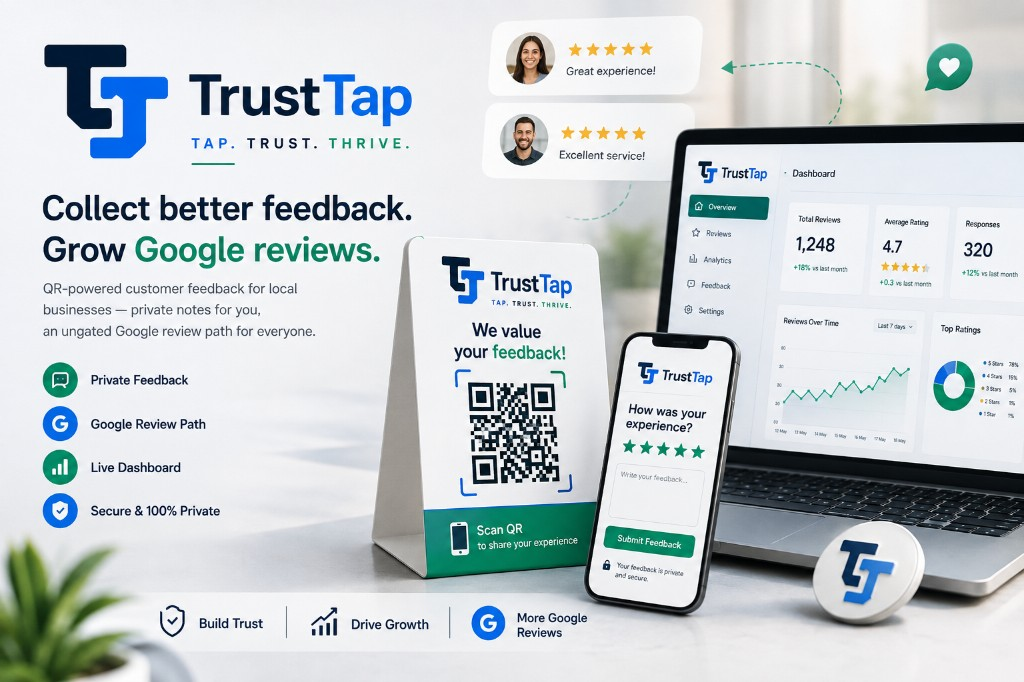
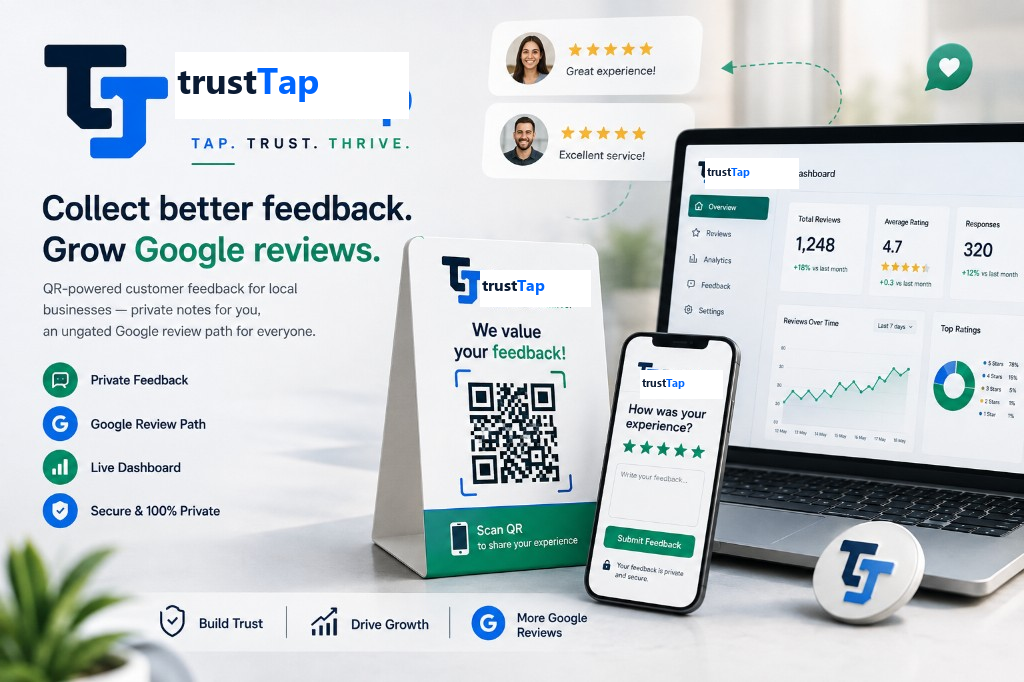
Rename the product spelling to trustTap in copy and hero artwork.

diff --git a/frontend/src/lib/trustTapPageContent.ts b/frontend/src/lib/trustTapPageContent.ts
@@ -8,13 +8,13 @@ import {
 import { ROUTES } from "./routes";
 
 export const TRUSTTAP_LIVE_URL = "https://trusttap.commiters.com/" as const;
-export const TRUSTTAP_DOCUMENT_TITLE = "TrustTap";
+export const TRUSTTAP_DOCUMENT_TITLE = "trustTap";
 export const TRUSTTAP_SEO = {
   title: TRUSTTAP_DOCUMENT_TITLE,
   description:
     "NFC and QR-based ground verification for logistics, field personnel tracking, and facility inspection auditing.",
   keywords:
-    "TrustTap, ground verification, NFC, QR inspection, field tracking, logistics auditing, Commiters product",
+    "trustTap, ground verification, NFC, QR inspection, field tracking, logistics auditing, Commiters product",
   path: ROUTES.trustTap,
 } as const;
 
@@ -22,7 +22,7 @@ export const TRUSTTAP_ADMIN_DASHBOARD_URL = "https://trusttap.commiters.com/admi
 
 export const TRUSTTAP_HERO = {
   kicker: "PROPRIETARY CLOUD PRODUCT",
-  titleLead: "TrustTap:",
+  titleLead: "trustTap:",
   titleAccent: "Ground Verification & Physical Inspection Tracking",
   tagline:
     "NFC and QR-based ground verification system for logistics, field personnel tracking, and facility inspection auditing.",
@@ -33,14 +33,14 @@ export const TRUSTTAP_HERO = {
   secondaryHref: ROUTES.opsFlow,
 } as const;
 
-/** Hero right column — TrustTap product marketing visual. */
+/** Hero right column — trustTap product marketing visual. */
 export const TRUSTTAP_HERO_SHOWCASE = {
-  ariaLabel: "TrustTap marketing visual with QR stand, mobile feedback flow, analytics dashboard, and updated brand logo",
+  ariaLabel: "trustTap marketing visual with QR stand, mobile feedback flow, analytics dashboard, and updated brand logo",
   image: {
     src: "/assets/trusttap/trusttap-hero-marketing.png",
     srcSet:
       "/assets/trusttap/trusttap-hero-marketing.png 1x, /assets/trusttap/trusttap-hero-marketing@2x.png 2x",
-    alt: "TrustTap — Tap. Trust. Thrive. QR feedback, Google review path, live dashboard, and private customer notes for local businesses",
+    alt: "trustTap — Tap. Trust. Thrive. QR feedback, Google review path, live dashboard, and private customer notes for local businesses",
     width: 1024,
     height: 682,
   },
@@ -155,7 +155,7 @@ export const TRUSTTAP_FAQ = {
   items: [
     {
       id: "gate",
-      question: "Does TrustTap gate Google reviews by rating?",
+      question: "Does trustTap gate Google reviews by rating?",
       answer:
         "No. Every customer always sees the same Google review option. Private feedback is separate.",
     },
@@ -190,12 +190,12 @@ export const TRUSTTAP_BOTTOM_CTA = {
 export const TRUSTTAP_ABOUT = {
   kicker: "ABOUT",
   title: "Built for the field, not a slide deck.",
-  body: "TrustTap gives operations teams NFC and QR ground verification: tamper-proof scans, offline inspection logs, and a live ops dashboard scoped by policy.",
+  body: "trustTap gives operations teams NFC and QR ground verification: tamper-proof scans, offline inspection logs, and a live ops dashboard scoped by policy.",
   illustration: {
     src: "/assets/trusttap/trusttap-hero-showcase.png",
     srcSet:
       "/assets/trusttap/trusttap-hero-showcase.png 1x, /assets/trusttap/trusttap-hero-showcase@2x.png 2x",
-    alt: "TrustTap product console with QR stand, mobile scan flow, and operations dashboard",
+    alt: "trustTap product console with QR stand, mobile scan flow, and operations dashboard",
     width: 1024,
     height: 682,
   },
@@ -209,19 +209,19 @@ export const TRUSTTAP_PREVIEW = {
     {
       id: "qr",
       src: "/assets/trusttap/trusttap-qr-preview.svg",
-      alt: "TrustTap QR stand for in-store feedback",
+      alt: "trustTap QR stand for in-store feedback",
       caption: "QR stand",
     },
     {
       id: "dashboard",
       src: "/assets/trusttap/trusttap-dashboard-preview.svg",
-      alt: "TrustTap owner dashboard preview",
+      alt: "trustTap owner dashboard preview",
       caption: "Live dashboard",
     },
     {
       id: "locations",
       src: "/assets/trusttap/trusttap-locations-preview.svg",
-      alt: "TrustTap multi-location coverage preview",
+      alt: "trustTap multi-location coverage preview",
       caption: "Locations",
     },
   ],

diff --git a/frontend/src/components/Navbar.test.tsx b/frontend/src/components/Navbar.test.tsx
@@ -66,19 +66,19 @@ describe("Navbar", () => {
     expect(screen.queryByText(/^Commiters$/)).not.toBeInTheDocument();
 
     const primaryNav = screen.getByRole("navigation", { name: /Primary navigation/i });
-    expect(primaryNavLabels(primaryNav)).toEqual(["Services", "About", "Work", "TrustTap", "OpsFlow AI"]);
+    expect(primaryNavLabels(primaryNav)).toEqual(["Services", "About", "Work", "trustTap", "OpsFlow AI"]);
     expect(desktopNavTriggers(primaryNav).map((link) => link.textContent?.replace(/\s+/g, " ").trim())).toEqual([
       "Services",
       "About",
       "Work",
-      "TrustTap",
+      "trustTap",
       "OpsFlow AI",
     ]);
     expect(desktopNavTriggers(primaryNav)[0]).toHaveAttribute("href", ROUTES.services);
 
-    expect(within(primaryNav).getByRole("link", { name: /^TrustTap$/i })).toHaveAttribute("data-nav-emphasis", "flagship");
+    expect(within(primaryNav).getByRole("link", { name: /^trustTap$/i })).toHaveAttribute("data-nav-emphasis", "flagship");
     expect(within(primaryNav).getByRole("link", { name: /^OpsFlow AI$/i })).toHaveAttribute("data-nav-emphasis", "lead-magnet");
-    expect(within(primaryNav).getByRole("link", { name: /^TrustTap$/i })).toHaveAttribute("href", ROUTES.trustTap);
+    expect(within(primaryNav).getByRole("link", { name: /^trustTap$/i })).toHaveAttribute("href", ROUTES.trustTap);
     expect(within(primaryNav).getByRole("link", { name: /^OpsFlow AI$/i })).toHaveAttribute("href", ROUTES.opsFlow);
 
     expect(within(primaryNav).queryByRole("link", { name: /^Home$/i })).not.toBeInTheDocument();
@@ -256,11 +256,11 @@ describe("Navbar", () => {
     expect(within(drawer).getByRole("button", { name: /^Services$/i })).toBeInTheDocument();
     expect(within(drawer).getByRole("button", { name: /^About$/i })).toBeInTheDocument();
     expect(within(drawer).getByRole("button", { name: /^Work$/i })).toBeInTheDocument();
-    expect(within(drawer).getByRole("button", { name: /^TrustTap$/i })).toBeInTheDocument();
+    expect(within(drawer).getByRole("button", { name: /^trustTap$/i })).toBeInTheDocument();
     expect(within(drawer).getByRole("button", { name: /^OpsFlow AI$/i })).toBeInTheDocument();
     expect(within(drawer).queryByRole("link", { name: /^About$/i })).not.toBeInTheDocument();
     expect(within(drawer).queryByRole("link", { name: /^Work$/i })).not.toBeInTheDocument();
-    expect(within(drawer).queryByRole("link", { name: /^TrustTap$/i })).not.toBeInTheDocument();
+    expect(within(drawer).queryByRole("link", { name: /^trustTap$/i })).not.toBeInTheDocument();
     expect(within(drawer).queryByRole("link", { name: /^OpsFlow AI$/i })).not.toBeInTheDocument();
     expect(within(drawer).getByRole("link", { name: /^Contact$/i })).toHaveAttribute("href", ROUTES.contact);
     expect(within(drawer).getByRole("link", { name: /^Careers$/i })).toHaveAttribute("href", ROUTES.openPositions);

diff --git a/frontend/src/lib/navSections.test.ts b/frontend/src/lib/navSections.test.ts
@@ -29,7 +29,7 @@ describe("navSections", () => {
       "Services",
       "About",
       "Work",
-      "TrustTap",
+      "trustTap",
       "OpsFlow AI",
     ]);
     expect(PRIMARY_NAV_ITEMS.map((item) => item.to)).toEqual([
@@ -124,7 +124,7 @@ describe("navSections", () => {
 
   it("builds desktop dropdown configs from primary nav items", () => {
     const configs = resolveNavDropdownConfigs();
-    expect(configs.map((config) => config.label)).toEqual(["Services", "About", "Work", "TrustTap", "OpsFlow AI"]);
+    expect(configs.map((config) => config.label)).toEqual(["Services", "About", "Work", "trustTap", "OpsFlow AI"]);
     expect(configs.find((config) => config.id === "trusttap")?.emphasis).toBe("flagship");
     expect(configs.find((config) => config.id === "opsflow")?.emphasis).toBe("lead-magnet");
     expect(configs.find((config) => config.id === "services")?.links.map((link) => ({ label: link.label, to: link.to }))).toEqual([
@@ -141,7 +141,7 @@ describe("navSections", () => {
       "Services",
       "About",
       "Work",
-      "TrustTap",
+      "trustTap",
       "OpsFlow AI",
     ]);
     expect(entries.every((entry) => entry.kind === "dropdown")).toBe(true);
@@ -189,7 +189,7 @@ describe("navSections", () => {
   it("partitions desktop header links into the conversion bar", () => {
     const groups = partitionHeaderNavItems(PRIMARY_NAV_ITEMS);
 
-    expect(groups.bar.map((item) => item.label)).toEqual(["Services", "About", "Work", "TrustTap", "OpsFlow AI"]);
+    expect(groups.bar.map((item) => item.label)).toEqual(["Services", "About", "Work", "trustTap", "OpsFlow AI"]);
     expect(groups.more.map((item) => item.label)).toEqual([]);
     expect(groups.mobile.map((item) => item.label)).toEqual(PRIMARY_NAV_ITEMS.map((item) => item.label));
   });

diff --git a/frontend/src/lib/siteFooterCopy.test.ts b/frontend/src/lib/siteFooterCopy.test.ts
@@ -52,11 +52,11 @@ describe("siteFooterCopy", () => {
     expect(platforms?.kind === "internal" ? platforms.to : undefined).toBe(ROUTES.webApplications);
     const opsFlow = SITE_FOOTER_COPY.navColumns[0].links.find((link) => link.label === "OpsFlow AI");
     expect(opsFlow?.kind === "internal" ? opsFlow.to : undefined).toBe(ROUTES.opsFlowPlayground);
-    const trustTap = SITE_FOOTER_COPY.navColumns[0].links.find((link) => link.label === "TrustTap");
+    const trustTap = SITE_FOOTER_COPY.navColumns[0].links.find((link) => link.label === "trustTap");
     expect(trustTap?.kind === "internal" ? trustTap.to : undefined).toBe(ROUTES.trustTap);
     const utilities = SITE_FOOTER_COPY.navColumns[0].links.find((link) => link.label === "Free Business Utilities");
     expect(utilities?.kind === "internal" ? utilities.to : undefined).toBe(ROUTES.utilities);
-    expect(SITE_FOOTER_COPY.navColumns[0].links.map((link) => link.label)).toContain("TrustTap");
+    expect(SITE_FOOTER_COPY.navColumns[0].links.map((link) => link.label)).toContain("trustTap");
     expect(SITE_FOOTER_COPY.navColumns[0].links.map((link) => link.label)).not.toContain("Custom AI Pipelines");
 
     const ecommerce = SITE_FOOTER_COPY.navColumns[1].links.find((link) => link.label === "Automated E-commerce Systems");

diff --git a/frontend/src/lib/jobs/staticPublicJobs.ts b/frontend/src/lib/jobs/staticPublicJobs.ts
@@ -31,7 +31,7 @@ const STATIC_JOBS: JobDetail[] = [
     aboutCompany:
       "Commiters is a founder-led engineering studio in Udaipur helping startups ship production-ready web, mobile, and AI products. We work with founders who need reliable delivery—not slide decks—and we publish case studies, blogs, and product updates that reflect how we actually build.",
     roleOverview:
-      "Support demand generation, content, and campaign execution for Commiters services and products—including TrustTap and client success stories. You will help turn technical delivery into clear messaging that attracts founders and product teams evaluating a build partner.",
+      "Support demand generation, content, and campaign execution for Commiters services and products—including trustTap and client success stories. You will help turn technical delivery into clear messaging that attracts founders and product teams evaluating a build partner.",
     description:
       "You will help plan and run marketing programs that attract founders and product teams, from SEO and landing pages to email nurture and social proof. Day to day, you will draft content, coordinate launches with engineering, and track what messaging drives qualified conversations.",
     responsibilities: [

diff --git a/frontend/src/lib/navSections.ts b/frontend/src/lib/navSections.ts
@@ -17,12 +17,12 @@ export const NAV_CTA_LABEL = "Book Operational Audit" as const;
 export const NAV_CTA_TO = ROUTES.aiOperationalAudit;
 export const NAV_HEADER_BADGE = "COMMITERS — Enterprise AI & Cloud Systems" as const;
 
-/** Conversion-focused header: Services mega-menu, then About, Work, TrustTap, OpsFlow AI. */
+/** Conversion-focused header: Services mega-menu, then About, Work, trustTap, OpsFlow AI. */
 export const PRIMARY_NAV_ITEMS: PrimaryNavItem[] = [
   { id: "services", to: ROUTES.services, label: "Services" },
   { id: "about", to: ROUTES.about, label: "About" },
   { id: "work", to: ROUTES.caseStudies, label: "Work" },
-  { id: "trusttap", to: ROUTES.trustTap, label: "TrustTap", emphasis: "flagship" },
+  { id: "trusttap", to: ROUTES.trustTap, label: "trustTap", emphasis: "flagship" },
   { id: "opsflow", to: ROUTES.opsFlow, label: "OpsFlow AI", emphasis: "lead-magnet" },
 ];
 
@@ -316,7 +316,7 @@ export const NAV_DROPDOWN_CONFIGS: NavDropdownConfig[] = [
   },
   {
     id: "trusttap",
-    label: "TrustTap",
+    label: "trustTap",
     overviewTo: ROUTES.trustTap,
     headline: "COMMITERS — Enterprise AI & Cloud Systems",
     layout: "mega",

diff --git a/frontend/src/lib/servicesOverviewPageContent.ts b/frontend/src/lib/servicesOverviewPageContent.ts
@@ -9,7 +9,7 @@ export const SERVICES_OVERVIEW_SEO = {
   description:
     "We build enterprise AI products and engineer scalable cloud platforms—backed by governed Model Context Protocol (MCP) integrations, zero ambient authority, and spec-driven software development.",
   keywords:
-    "enterprise AI products, cloud-native web systems, AI operational audit, governed AI, spec-driven platforms, MCP, OpsFlow AI, TrustTap, Commiters services",
+    "enterprise AI products, cloud-native web systems, AI operational audit, governed AI, spec-driven platforms, MCP, OpsFlow AI, trustTap, Commiters services",
   path: ROUTES.services,
 } as const;
 
@@ -187,10 +187,10 @@ export const SERVICES_OVERVIEW_PRODUCTS: readonly ServicesOverviewProduct[] = [
   },
   {
     id: "trusttap",
-    title: "TrustTap",
+    title: "trustTap",
     description: "NFC/QR ground verification and field inspection tracking.",
     to: ROUTES.trustTap,
-    ctaLabel: "Open TrustTap",
+    ctaLabel: "Open trustTap",
   },
 ] as const;
 

diff --git a/frontend/src/lib/sitemapPageContent.ts b/frontend/src/lib/sitemapPageContent.ts
@@ -48,7 +48,7 @@ export const SITEMAP_PAGE_COPY = {
         { label: "About", to: ROUTES.about, description: "Vision, craftsmanship, and operating principles." },
         { label: "Services", to: ROUTES.services, description: "AI operational engineering and custom web systems." },
         { label: "Work", to: ROUTES.caseStudies, description: "Case studies and shipped products." },
-        { label: "TrustTap", to: ROUTES.trustTap, description: "Our trust and verification product." },
+        { label: "trustTap", to: ROUTES.trustTap, description: "Our trust and verification product." },
         { label: "OpsFlow AI", to: ROUTES.opsFlow, description: "Free invoice-to-Excel sandbox for operations teams." },
         { label: "Free Business Utilities", to: ROUTES.utilities, description: "Zero-code operational tools including OpsFlow AI." },
         { label: "Blog", to: ROUTES.technicalLedger, description: "Technical notes and engineering insights." },

diff --git a/frontend/src/lib/siteFooterCopy.ts b/frontend/src/lib/siteFooterCopy.ts
@@ -34,7 +34,7 @@ export const SITE_FOOTER_TAGLINE = SITE_FOOTER_BRAND_TAGLINE;
 
 export const SITE_FOOTER_FLAGSHIP_NAV_LINK_LABELS = [
   "OpsFlow AI",
-  "TrustTap",
+  "trustTap",
   "Spec-Driven Full-Stack Platforms",
   "AI Operational Audits",
   "Governed AI & Workflow Systems",
@@ -85,7 +85,7 @@ export const SITE_FOOTER_NAV_LINK_LABELS = [
 
 const SITE_FOOTER_FLAGSHIP_NAV_LINKS = [
   { kind: "internal", label: "OpsFlow AI", to: ROUTES.opsFlowPlayground },
-  { kind: "internal", label: "TrustTap", to: ROUTES.trustTap },
+  { kind: "internal", label: "trustTap", to: ROUTES.trustTap },
   { kind: "internal", label: "Spec-Driven Full-Stack Platforms", to: ROUTES.webApplications },
   { kind: "internal", label: "AI Operational Audits", to: ROUTES.aiOperationalAudit },
   { kind: "internal", label: "Governed AI & Workflow Systems", to: ROUTES.aiSolutions },

diff --git a/frontend/src/lib/servicesOverviewPageContent.test.ts b/frontend/src/lib/servicesOverviewPageContent.test.ts
@@ -128,7 +128,7 @@ describe("servicesOverviewPageContent", () => {
     expect(SERVICES_OVERVIEW_CAPABILITIES[0]?.subtext).toMatch(/GST invoice pipelines/);
   });
 
-  it("showcases OpsFlow AI and TrustTap as live products", () => {
+  it("showcases OpsFlow AI and trustTap as live products", () => {
     expect(SERVICES_OVERVIEW_PRODUCTS_TITLE).toBe("Live Product Showcases");
     expect(SERVICES_OVERVIEW_PRODUCTS).toEqual([
       {
@@ -140,10 +140,10 @@ describe("servicesOverviewPageContent", () => {
       },
       {
         id: "trusttap",
-        title: "TrustTap",
+        title: "trustTap",
         description: "NFC/QR ground verification and field inspection tracking.",
         to: ROUTES.trustTap,
-        ctaLabel: "Open TrustTap",
+        ctaLabel: "Open trustTap",
       },
     ]);
   });

diff --git a/frontend/src/lib/mobileNavDrawer.ts b/frontend/src/lib/mobileNavDrawer.ts
@@ -64,7 +64,7 @@ export const MOBILE_NAV_DRAWER_ITEMS: readonly MobileNavDrawerItem[] = [
   { id: "services", label: "Services", expandable: true, children: MOBILE_NAV_SERVICE_LINKS },
   { id: "about", label: "About", expandable: true, children: MOBILE_NAV_ABOUT_LINKS },
   { id: "work", label: "Work", expandable: true, children: MOBILE_NAV_WORK_LINKS },
-  { id: "trusttap", label: "TrustTap", expandable: true, children: MOBILE_NAV_TRUSTTAP_LINKS },
+  { id: "trusttap", label: "trustTap", expandable: true, children: MOBILE_NAV_TRUSTTAP_LINKS },
   { id: "opsflow", label: "OpsFlow AI", expandable: true, children: MOBILE_NAV_OPSFLOW_LINKS },
   { id: "contact", label: "Contact", to: ROUTES.contact },
   { id: "careers", label: "Careers", to: ROUTES.openPositions },

diff --git a/backend/src/lib/chatKnowledge.ts b/backend/src/lib/chatKnowledge.ts
@@ -69,7 +69,7 @@ export const CHAT_KNOWLEDGE_BASE: readonly ChatKnowledgeEntry[] = [
     id: "portfolio",
     question: "What projects has Commiters worked on?",
     answer:
-      `Commiters has shipped custom web platforms, e-commerce solutions, local business automation, hospitality tools such as TrustTap, and MVPs. Explore case studies on ${CHAT_PORTFOLIO_PATH}.`,
+      `Commiters has shipped custom web platforms, e-commerce solutions, local business automation, hospitality tools such as trustTap, and MVPs. Explore case studies on ${CHAT_PORTFOLIO_PATH}.`,
     keywords: ["portfolio", "project", "projects", "work", "case", "study", "hospitality", "mvp"],
   },
   {
